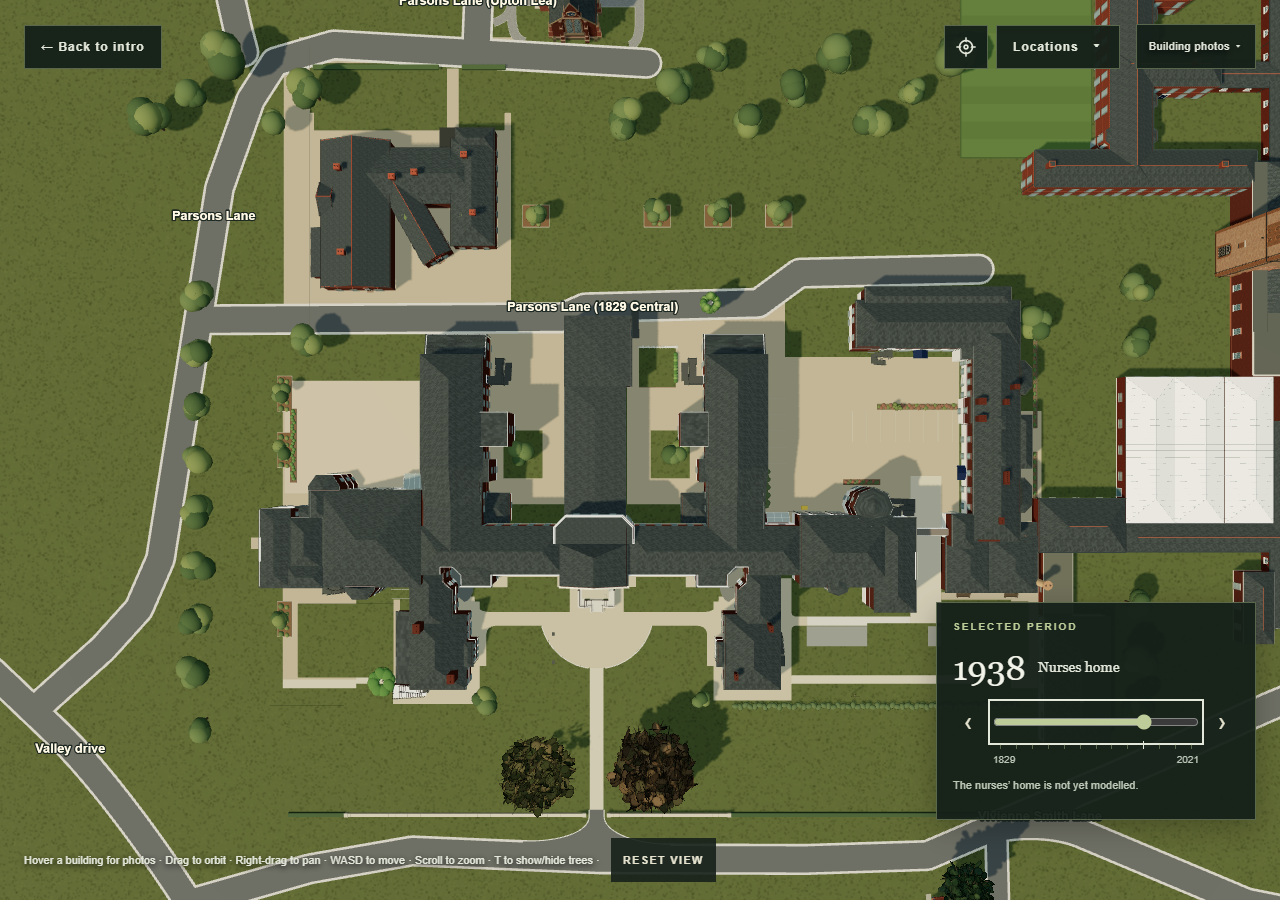
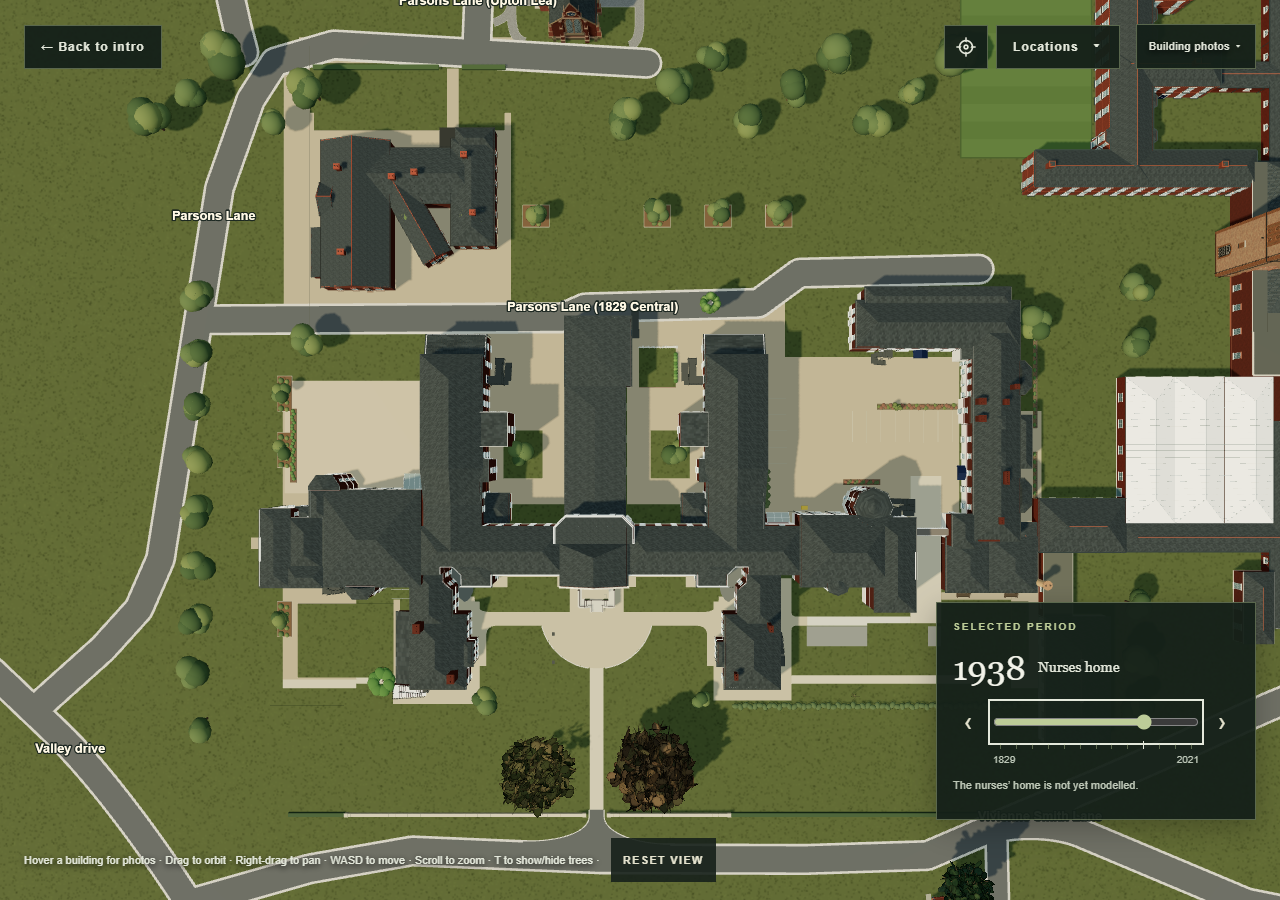
Build timeout fix

diff --git a/DEVELOPMENT.md b/DEVELOPMENT.md
@@ -1,5 +1,54 @@
 # Development and modelling notes
 
+## Five random exits from fourteen candidates (September 18)
+
+Asylum Escape now replaces the old fixed exits with the seven marked perimeter
+locations on each floor: fourteen candidates in total. The central portico
+escape is removed. The browser uniformly shuffles the combined candidate pool
+once per page load and activates exactly five distinct routes. A floor can have
+zero active exits. Pause, stairs and retry retain the same selection; reloading
+draws again.
+
+The filtered floor layouts feed door geometry, signs, green lamps, both maps,
+artwork clearance, enemy spawn clearance and hold-E escape interactions. The
+new gallery-end doors and signs rotate to face west/east. Floor counts, help,
+the game description and the result's four remaining routes match the draw.
+
+`node Browser/build-escape-layout.mjs` regenerates both layout JSON copies.
+Only the browser game and shared navigation source data are updated; Unity,
+Blender and GLB exports are not regenerated. The compiled aerial model is
+unaffected because it does not include the interior.
+
+Validation: the full `npm test` suite passes; its output is
+`Browser/artifacts/random-exits-suite.txt`. The random-route checks cover 256
+draws, all fourteen candidates, selection without replacement, source-data
+preservation, reachability, inactive/removed exits and floors with zero exits.
+Geometry checks raycast every candidate door, including the east/west ends.
+The real game-loop checks cover all five selected escape interactions, disabled
+locations and retry stability.
+
+The Chrome/WebGL check `node Browser/artifacts/check-random-exits.mjs --quick`
+passes five visible doors, green lamps, all five keyboard hold-E escapes,
+inactive/removed exits, floor counts, artwork clearance and retry stability
+with zero browser errors. Desktop maps and a side door on desktop/mobile were
+rendered and reviewed. Screenshots and validation data use the
+`Browser/artifacts/random-exits-` prefix.
+See [the reference and candidate coordinates](Research/escape-layout/README.md#fourteen-candidate-escape-routes-september-18-follow-up).
+
+
+## Pages compiled-scene navigation timeout (September 18)
+
+The Pages verification step could stop in `page.goto()` after 30 seconds on the
+full-detail front view, before reaching its 120-second rendered-frame check.
+Both `test-precompiled-models.mjs` and `test-timeline-browser.mjs` now set a
+120-second navigation timeout when creating their page. This also covers the
+timeline reload and navigation to the walking scene. Readiness, rendering,
+source/compiled image comparison and fallback checks are retained. Full-detail
+results now include loading time and explicitly require compiled mode.
+
+Only validation scripts and documentation changed; browser runtime, model
+sources, generated assets and Unity/Blender exports are unchanged.
+
 ## Upstairs emergency exits (September 18)
 
 The three blue-marked rear corridor ends now have usable upstairs fire escapes:

diff --git a/Research/escape-layout/README.md b/Research/escape-layout/README.md
@@ -46,3 +46,33 @@ five ground-floor exits retain their previous layout. As with the rest of this
 plan, these positions are gameplay approximations. Browser runtime data is
 updated; Unity, Blender and GLB exports are not regenerated, and aerial
 compiled assets are unaffected.
+
+## Fourteen candidate escape routes (September 18 follow-up)
+
+The owner's [seven purple-marked locations](random-exits-reference.png) replace
+the previous exit lists on both floors, including removal of the main portico
+exit. This supersedes the upstairs-only additions above.
+
+| Location, on each floor | Grid cell (x, z) | Faces |
+| --- | --- | --- |
+| West rear arm | (12, 7) | North |
+| Central rear arm | (20, 6) | North |
+| East rear arm | (28, 7) | North |
+| West gallery end | (2, 19) | West |
+| East gallery end | (38, 19) | East |
+| West forward wing | (11, 26) | South |
+| East forward wing | (29, 26) | South |
+
+The two JSON exit lists now store seven candidates each. At page load,
+`escape-routes.mjs` shuffles the combined pool and selects exactly five distinct
+routes without replacement. Either floor may receive zero exits. The choice
+persists through pause, floor changes and retries; reloading chooses a fresh
+random set, which can occasionally repeat by chance.
+
+Only selected routes receive doors, push bars, signs, green lamps, map markers
+and hold-E interactions. Gallery-end doors and signs face east/west. Ordinary
+walls remain at unselected locations. Corridor cells and stairs are unchanged.
+
+Both canonical and browser navigation JSON files are regenerated. The browser
+interior builds from these cells; Unity, Blender and GLB exports are not
+regenerated. The aerial compiled model does not include this interior.

diff --git a/Browser/MODEL-BUILD.md b/Browser/MODEL-BUILD.md
@@ -47,4 +47,6 @@ Prebuilding moves geometry generation, instancing preparation, batching and text
 
 The compiled-scene test writes `artifacts/precompiled-models.json` with separate model-setup and page-ready times, and `precompiled-source.png` / `precompiled-compiled.png` for visual comparison. Local timings are diagnostic: local networking, browser caches and software WebGL do not represent a first visit on a phone or a slow connection. The binary trades extra download size for less procedural construction work.
 
+Both compiled-scene browser scripts allow 120 seconds per navigation (including reloads and the walking page), matching the existing scene-readiness timeout. Full-detail startup under software WebGL can exceed Playwright's default 30-second navigation limit before the readiness check starts. The full-detail check also verifies compiled loading and records its timing in `precompiled-models.json`; rendering, image comparison and fallback assertions remain enabled.
+
 The September 17 local check produced a 10.17 MB compressed asset (84.09 MB before compression). Model setup was 1.17 seconds from source and 0.92 seconds compiled, while page-ready time was 6.47 versus 7.15 seconds. This single run does **not** establish an overall startup improvement. Both paths submitted 672,598 triangles and 2,656 draw calls at 1000 × 700. The image comparison found 112 of 700,000 pixels differing by more than three intensity levels per channel on average; the renderings were visually matched. The test now checks image similarity as well as exact geometry/draw counts. Results vary with subsequent modelling changes and hardware.
